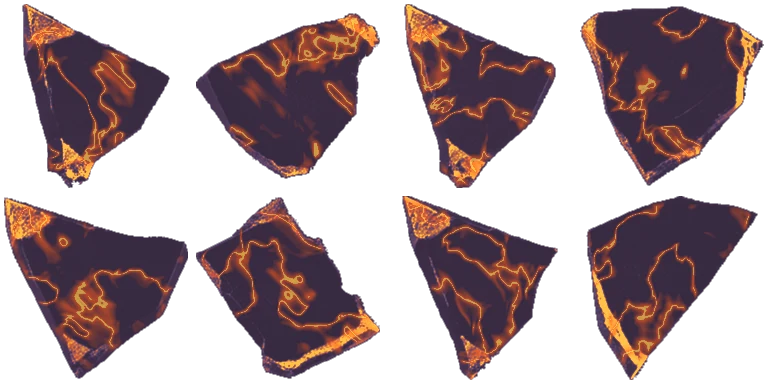
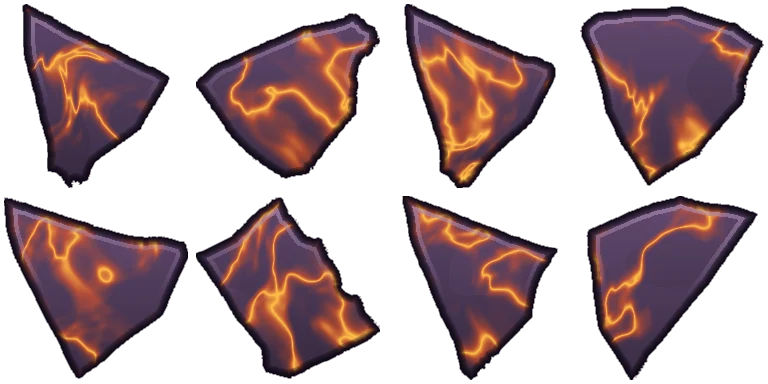
change(fx): the rock breathes, stretches and breaks
It was a static cutout being moved. Three things were missing and all three
are what "not alive" meant.

The seams are a flipbook now. pack-shards --frames bakes N cells per chunk
with the ridge field advanced and its gain swelling, so the cracks flow and
pulse instead of being printed on. Four frames at 320px, 110 kB, and the sheet
becomes frames-across by chunks-down.

The rock deforms. It squashes into the wind-up and stretches along travel, so
it carries weight instead of sliding at a fixed aspect.

And it breaks. The boulder used to be destroyed at the impact and replaced by
a plate; now five wedges leave the crater on their own arcs, tumbling and
falling, which is what the eye was waiting for.

Both rock sheets also went over into the board's own drawing language, because
they were painted in a different one: pack-shards now lays a hard dark outline
round the silhouette, lights the upper facets toward OBSIDIAN.edge, runs the
pale top lip along the crest and cuts the seams two-tone, seam under seamHot.
That is drawBlock in src/art/obsidian.js, which is what the locked cells on
the board already are. Before this the chunks were photographic rock with fine
scratches and they sat on the board like a sticker.

diff --git a/src/fx/vfx.js b/src/fx/vfx.js
@@ -22,7 +22,7 @@ import {
   spellFrames,
 } from "../art/spells.js";
 import { streamArt } from "../art/streams.js";
-import { boulderTexture, shardTexture } from "../art/shards.js";
+import { boulderFrames, shardTexture } from "../art/shards.js";
 import { boltArt } from "../art/bolts.js";
 import { POP_ASPECT, popFrames } from "../art/gempop.js";
 import { CHARGE_ASPECT, chargeFrames } from "../art/gemcharge.js";
@@ -1314,7 +1314,7 @@ export class Vfx extends Container {
         glow.alpha = 0;
         this.field.addChild(glow);
 
-        const rock = art ? new Sprite(art) : null;
+        const rock = art ? new Sprite(art[0]) : null;
         if (rock) {
           rock.anchor.set(0.5);
           rock.setSize(wide * VOLLEY.from, wide * VOLLEY.from);
@@ -1368,7 +1368,7 @@ export class Vfx extends Container {
   async boulder(from, to, opts) {
     const o = opts || {};
     const size = o.size || 260;
-    const art = boulderTexture(o.seed || 0);
+    const art = boulderFrames(o.seed || 0);
 
     const halo = new Sprite(glowTexture());
     halo.anchor.set(0.5);
@@ -1420,7 +1420,9 @@ export class Vfx extends Container {
       halo.alpha = BOULDER.haloAlpha * e;
       const lift = from.y - size * BOULDER.rear * e;
       if (rock && !rock.destroyed) {
-        rock.setSize(w, w);
+        rock.texture = art[((p * art.length) | 0) % art.length];
+        const squash = 1 - BOULDER.wind * Math.sin(Math.PI * p);
+        rock.setSize(w * (2 - squash), w * squash);
         rock.rotation = seed + spin * 0.12 * e;
         rock.alpha = e;
         rock.y = lift;
@@ -1447,9 +1449,11 @@ export class Vfx extends Container {
       halo.alpha = BOULDER.haloAlpha * (0.6 + 0.4 * e);
 
       if (rock && !rock.destroyed) {
+        rock.texture = art[((p * art.length * BOULDER.beat) | 0) % art.length];
         rock.x = x;
         rock.y = y;
-        rock.setSize(w, w);
+        const pull = 1 + BOULDER.stretch * Math.min(1, p * 1.4);
+        rock.setSize(w * (2 - pull), w * pull);
         rock.rotation = seed + spin * e;
         rock.alpha = 1;
       }
@@ -1470,6 +1474,7 @@ export class Vfx extends Container {
     halo.destroy();
     if (shroud && !shroud.destroyed) shroud.destroy();
     if (rock && !rock.destroyed) rock.destroy();
+    this.breakRock(to, size);
 
     this.flash(BOULDER.flash, BOULDER.flashAlpha, BOULDER.flashSeconds);
     this.shockRing(to.x, to.y, OBSIDIAN.seam, {
@@ -1502,6 +1507,36 @@ export class Vfx extends Container {
         s.y = to.y + Math.sin(ang) * reach * p + reach * 1.5 * p * p;
         s.rotation += 0.24;
         s.alpha = p < 0.65 ? 1 : 1 - (p - 0.65) / 0.35;
+      }).then(() => !s.destroyed && s.destroy());
+    }
+  }
+
+  breakRock(at, size) {
+    for (let i = 0; i < BOULDER.pieces; i++) {
+      const art = shardTexture(i * 2 + 1);
+      if (!art) break;
+      const s = new Sprite(art);
+      s.anchor.set(0.5);
+      const w = size * rndRange(BOULDER.piece[0], BOULDER.piece[1]);
+      s.setSize(w, w);
+      s.x = at.x;
+      s.y = at.y;
+      s.rotation = rndRange(0, Math.PI * 2);
+      this.field.addChild(s);
+
+      const ang = -Math.PI / 2 + (i / BOULDER.pieces - 0.5) * Math.PI * 1.5;
+      const speed = size * rndRange(0.5, 1.0);
+      const spin = rndRange(-5, 5);
+      const life = BOULDER.piecesSeconds * rndRange(0.85, 1.15);
+
+      tweenValue(0, 1, life, (p) => {
+        if (s.destroyed) return;
+        s.x = at.x + Math.cos(ang) * speed * p;
+        s.y = at.y + Math.sin(ang) * speed * p + size * 1.9 * p * p;
+        s.rotation += spin * 0.02;
+        const shrink = 1 - p * 0.25;
+        s.setSize(w * shrink, w * shrink);
+        s.alpha = p < 0.6 ? 1 : 1 - (p - 0.6) / 0.4;
       }).then(() => !s.destroyed && s.destroy());
     }
   }

diff --git a/src/art/shards.js b/src/art/shards.js
@@ -4,8 +4,8 @@ import shardUrl from "../assets/boss/shard-sheet.webp";
 import boulderUrl from "../assets/boss/boulder-sheet.webp";
 
 const SHEETS = [
-  { url: shardUrl, cols: 4, count: 8, into: "shards" },
-  { url: boulderUrl, cols: 4, count: 4, into: "boulders" },
+  { url: shardUrl, cols: 4, rows: 2, frames: 1, into: "shards" },
+  { url: boulderUrl, cols: 4, rows: 4, frames: 4, into: "boulders" },
 ];
 
 const cut = {};
@@ -24,18 +24,18 @@ async function slice(sheet) {
 
   const cell = Math.round(img.width / sheet.cols);
   const out = [];
-  for (let i = 0; i < sheet.count; i++) {
-    out.push(
-      new Texture({
-        source,
-        frame: new Rectangle(
-          (i % sheet.cols) * cell,
-          Math.floor(i / sheet.cols) * cell,
-          cell,
-          cell,
-        ),
-      }),
-    );
+  for (let row = 0; row < sheet.rows; row++) {
+    const run = [];
+    for (let col = 0; col < sheet.cols; col++) {
+      run.push(
+        new Texture({
+          source,
+          frame: new Rectangle(col * cell, row * cell, cell, cell),
+        }),
+      );
+    }
+    if (sheet.frames > 1) out.push(run);
+    else run.forEach((tex) => out.push([tex]));
   }
   return out;
 }
@@ -57,9 +57,10 @@ function pick(list, index) {
 }
 
 export function shardTexture(index) {
-  return pick(cut.shards, index);
+  const run = pick(cut.shards, index);
+  return run ? run[0] : null;
 }
 
-export function boulderTexture(index) {
+export function boulderFrames(index) {
   return pick(cut.boulders, index) || pick(cut.shards, index);
 }

diff --git a/src/config.js b/src/config.js
@@ -72,6 +72,12 @@ export const BOULDER = {
   shroudDrop: 0.06,
   launch: 0.78,
   impactLead: 0.05,
+  beat: 2.6,
+  stretch: 0.16,
+  wind: 0.12,
+  pieces: 5,
+  piece: [0.26, 0.42],
+  piecesSeconds: 0.7,
   trail: 0.04,
   flash: 0xffb066,
   flashAlpha: 0.34,
